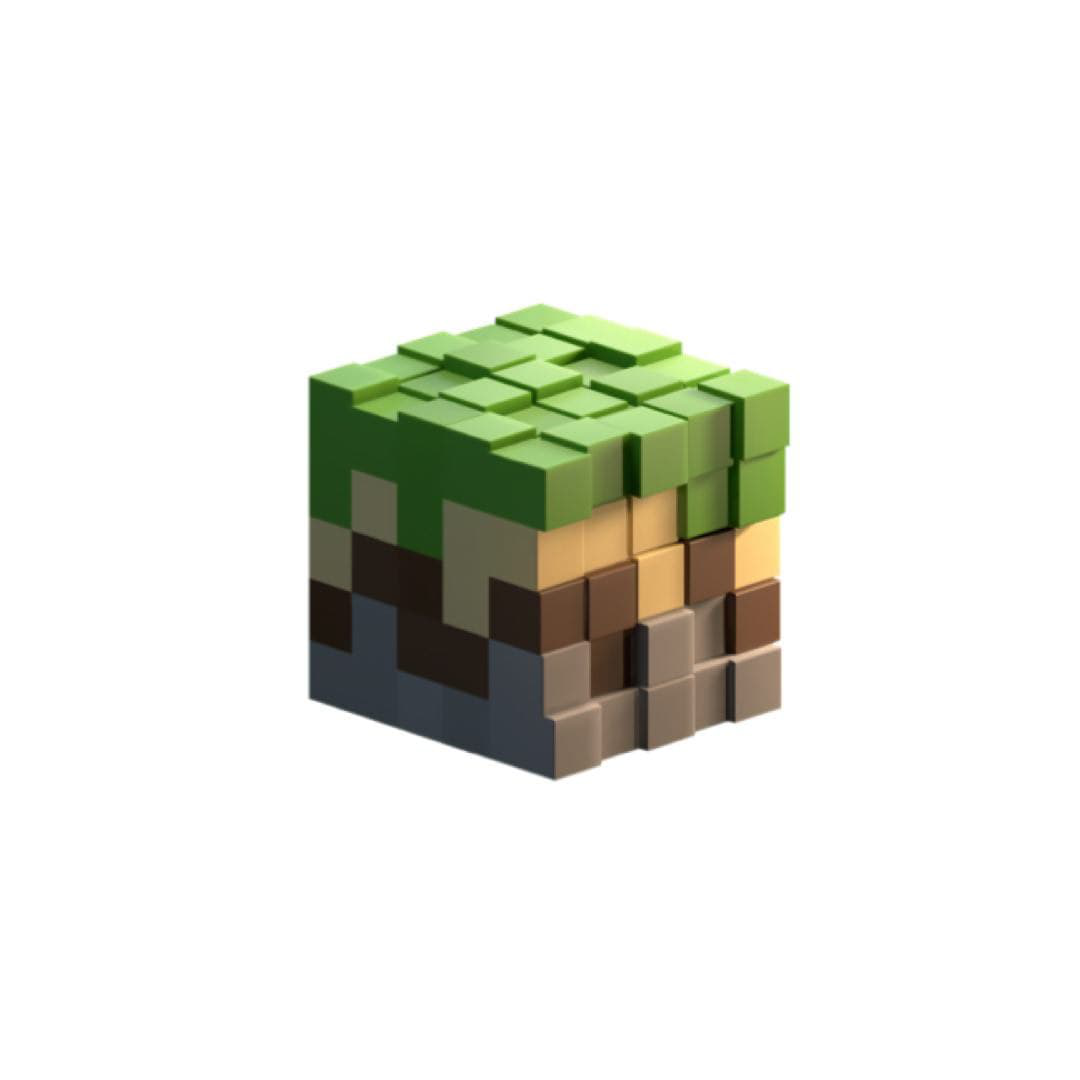
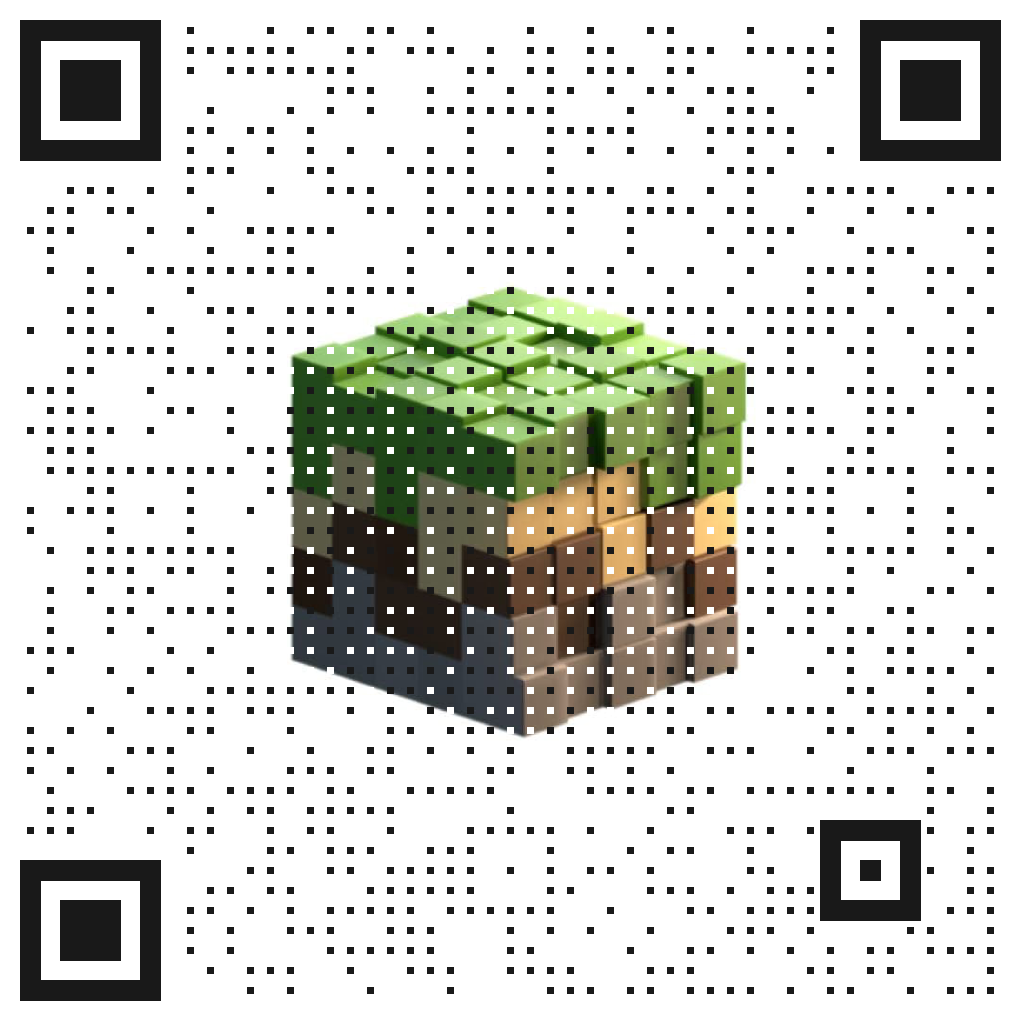
Добавлена генерация qr кода

diff --git a/app/api/reports.py b/app/api/reports.py
@@ -1,7 +1,9 @@
 from fastapi import APIRouter, Depends, Response, status, HTTPException
-from fastapi.responses import JSONResponse
+from fastapi.responses import FileResponse, StreamingResponse
 from typing import Optional, List
 import hashlib
+import os
+from services.qr_generator import gen_qr_code
 
 from models.reports import Report, ReportCreate, ReportUpdate
 from models.users import User
@@ -35,6 +37,25 @@ async def create_report(laboratory_number: str, test_type: str, report_data: Rep
         f"{report_data.object_number} {laboratory_number} {test_type} {user.id}".encode("utf-8")).hexdigest()
 
     return await service.create(report_id=id, user_id=user.id, report_data=report_data)
+
+
+@router.post("/qr")
+def create_qr(id: str,
+              user: User = Depends(get_current_user)):
+    """Создание qr"""
+    if not user.active:
+        raise HTTPException(
+            status_code=status.HTTP_401_UNAUTHORIZED,
+            detail="User is not active",
+            headers={"WWW-Authenticate": "Bearer"},
+        )
+    text = f"https://georeport.ru/report/?id={id}"
+
+    path_to_download = os.path.join("static/images", "digitrock_qr.png")  # Путь до фона qr кода
+
+    file = gen_qr_code(text, path_to_download)
+    return StreamingResponse(file, media_type="image/png")
+    #return FileResponse(file)
 
 
 @router.put("/", response_model=Report)

diff --git a/app/example_request.py b/app/example_request.py
@@ -1,0 +1,19 @@
+#import requests
+
+def request_qr():
+    with requests.Session() as sess:
+        reg = sess.post('http://0.0.0.0:9000/authorization/sign-in/',
+                        data={
+                            "username": "mdgt_admin",
+                            "password": "mdgt_admin",
+                            "grant_type": "password",
+                            "scope": "",
+                            "client_id": "",
+                            "client_secret": ""
+                        }, verify=False, allow_redirects=False)
+
+        response = sess.post('http://0.0.0.0:9000/reports/qr?id=2e7a1c2a70da23e400e776cab7189d02c4cfd33b')
+        assert response.ok, "Не удалось сгенерировать код"
+        with open("qr.png", "wb") as file:
+            file.write(response.content)
+        return "qr.png"

diff --git a/app/api/users.py b/app/api/users.py
@@ -29,6 +29,7 @@ async def sign_up(user_data: UserCreate, auth_service: UsersService = Depends(ge
 @router.post('/sign-in/')
 async def sign_in(auth_data: OAuth2PasswordRequestForm = Depends(), auth_service: UsersService = Depends(get_users_service)):
     """Получение токена (токен зранится в куки)"""
+    print(auth_data)
     token = await auth_service.authenticate_user(auth_data.username, auth_data.password)
     content = {"message": "True"}
     response = JSONResponse(content=content)

diff --git a/app/services/qr_generator.py b/app/services/qr_generator.py
@@ -115,6 +115,6 @@ def gen_qr_code(text: str, path_to_download: Path, path_to_save: Path = None):
         path_to_download = path_to_save
 
     path = BytesIO()
+    background.save(path, "PNG")
     path.seek(0)
-    background.save(path_to_download)
     return path
